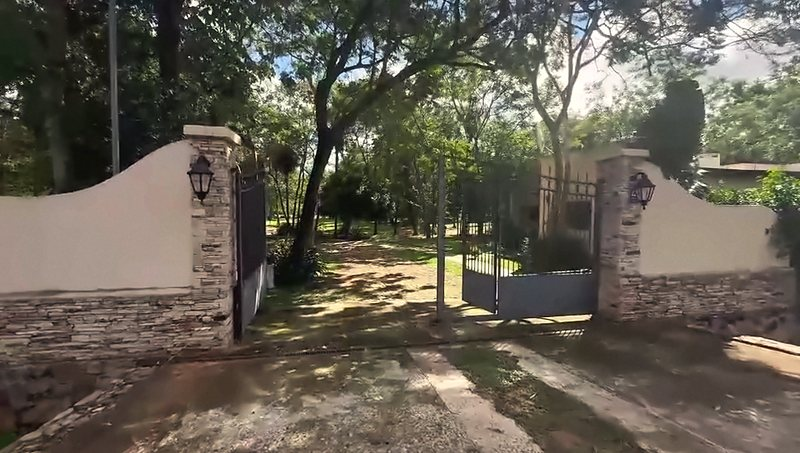
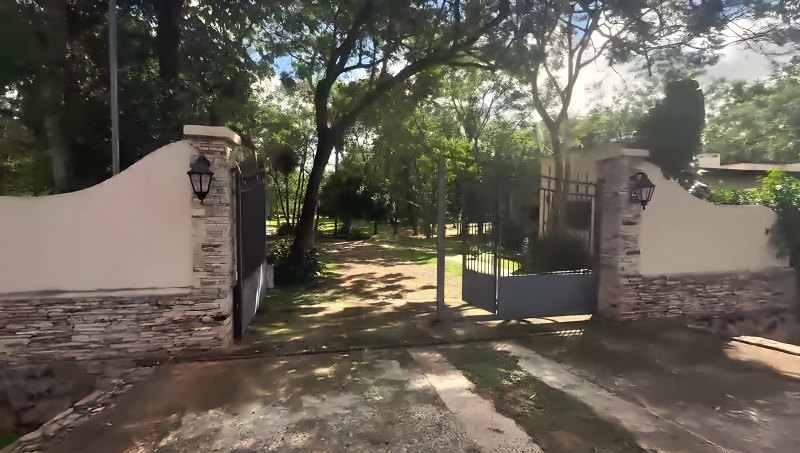
Property photos upscaled with Real-ESRGAN to 1920 px; park rebuilt from the sharpest video frame
The five photos now come from the cleaned video masters through Real-ESRGAN x4plus,
downsampled to 1920 and 800 px. The pool is built from the second part of the video
with the caption removed. The park uses frame 240 of part 1, framed above the caption
and without the parked vehicle, with no invented fill.

Claude-Session: https://claude.ai/code/session_019d8qPWDBUAxgTneqCKEMp6

diff --git a/tools/maqueta/sr-photos.py b/tools/maqueta/sr-photos.py
@@ -1,17 +1,20 @@
-"""Fotos del sitio con escalado por IA: toma los maestros limpios y graduados de photo-clean.py, arma la piscina desde
-la parte 2 del video y exporta las JPG del contrato a 1920 px (y -800) con Real-ESRGAN x4plus.
+"""Fotos del sitio con escalado por IA: toma los maestros limpios y graduados de photo-clean.py, arma la piscina y el
+parque desde el video y exporta las JPG del contrato a 1920 px (y -800) con Real-ESRGAN x4plus.
 
 Uso:
-  PW_SR_MODELS=<carpeta de pesos> python sr-photos.py <carpeta de trabajo> <parte2b.mov> <carpeta assets> [escena ...]
+  PW_SR_MODELS=<carpeta de pesos> python sr-photos.py <carpeta de trabajo> <carpeta de video> <carpeta assets> [escena ...]
     <carpeta de trabajo>  la de photo-clean.py (lee *-limpia-graduada.png y aerial-align.json)
-    <parte2b.mov>         segunda mitad de la parte 2 del video (piscina con jacuzzi y la casa detrás, cuadros 165–215)
+    <carpeta de video>    con parte1.mov (casa, portón, parque, aérea) y parte2b.mov (piscina con jacuzzi y la casa detrás)
     <carpeta assets>      destino: trianon-foto-{casa,porton,parque,piscina}.jpg, trianon-aerea.jpg y sus -800.jpg
     [escena ...]          opcional: casa porton parque piscina aerea (por defecto, las cinco)
 
 Método: maestro a resolución de origen (960×544) → Real-ESRGAN x4plus (3840 px) → reducción a 1920 y 800 px con área,
 enfoque muy suave y grano finísimo (el modelo ya devuelve bordes nítidos). La piscina: promedio robusto de los cuadros
 185–215 registrados sobre el 203 (cámara casi quieta) y relleno Shift-Map del subtítulo «Hermosa piscina con jacuzzi.»
-sobre el césped. La aérea recibe el límite del predio en dorado después del escalado, a la resolución final.
+sobre el césped. El parque: cuadro 240 de la parte 1 (el más nítido del video: árboles altos, césped y el sendero),
+promedio robusto de 236–244 y encuadre 16:9 por encima del subtítulo y sin el vehículo estacionado a la izquierda, sin
+relleno (el cuadro 332 que usa photo-clean.py está movido y el escalado le marca manchas en el follaje). La aérea
+recibe el límite del predio en dorado después del escalado, a la resolución final.
 Requiere el venv con PyTorch, OpenCV contrib, numpy y Pillow (ver BRIEF y upscale.py).
 """
 import importlib.util
@@ -69,6 +72,28 @@ def piscina_master(video, work):
     return pc.grade(pc.denoise(out, pc.DENOISE['piscina']), **pc.PRESETS['piscina'])
 
 
+def parque_master(video, work):
+    folder = os.path.join(work, 'fpq')
+    pc.extract_frames(video, range(236, 245), folder)
+    fr = pc.Frames(folder)
+    ref = fr(240)
+    Hh, W = ref.shape[:2]
+    box = (175, 420, 790, 476)                                   # «Amplia propiedad con casa y parque…»
+    mask = np.full((Hh, W), 255, np.uint8); mask[box[1] - 10:box[3] + 10, box[0] - 10:box[2] + 10] = 0
+    frames, valids = [], []
+    for i in (236, 238, 239, 241, 242, 244):                    # los más nítidos del tramo
+        w, inside = pc.align_to(ref, fr(i), mask)
+        v = (inside > 0).astype(np.float32); v[box[1]:box[3], box[0]:box[2]] = 0
+        frames.append(w); valids.append(v)
+    img = pc.robust_merge(ref, frames, valids, 5.0)
+    y1, x0, x1 = 408, 170, 890                                  # 720×408 = 1920×1088 exacto: sobre el subtítulo, sin el vehículo
+    out = img[:y1, x0:x1].copy()
+    cv2.imwrite(os.path.join(work, 'parque-video-limpia.png'), out)
+    # cuadro de pleno sol, no el 332 con bruma: sombras menos levantadas y algo más de contraste que el preset 'parque'
+    return pc.grade(pc.denoise(out, pc.DENOISE['parque']), exposure=1.0, gamma=1.0, warm=0.9, green=1.08,
+                    lift=0.015, contrast=0.15)
+
+
 def finish_from_sr(sr_bgr, width, grain, seed=7):
     h = round(sr_bgr.shape[0] * width / sr_bgr.shape[1])
     small = cv2.resize(sr_bgr, (width, h), interpolation=cv2.INTER_AREA)
@@ -88,8 +113,10 @@ def save(rgb, path, max_kb):
 def main():
     if len(sys.argv) < 4:
         print(__doc__); return 1
-    work, video2b, assets = sys.argv[1:4]
+    work, videos, assets = sys.argv[1:4]
     scenes = sys.argv[4:] or ['casa', 'porton', 'parque', 'piscina', 'aerea']
+    built = {'piscina': lambda: piscina_master(os.path.join(videos, 'parte2b.mov'), work),
+             'parque': lambda: parque_master(os.path.join(videos, 'parte1.mov'), work)}
     models = os.environ.get('PW_SR_MODELS', os.path.join(HERE, 'models'))
     import torch
     torch.set_num_threads(os.cpu_count() or 4)
@@ -98,10 +125,10 @@ def main():
              'piscina': 'trianon-foto-piscina', 'aerea': 'trianon-aerea'}
     report = {}
     for s in scenes:
-        master = piscina_master(video2b, work) if s == 'piscina' else cv2.imread(os.path.join(work, f'{s}-limpia-graduada.png'))
+        master = built[s]() if s in built else cv2.imread(os.path.join(work, f'{s}-limpia-graduada.png'))
         assert master is not None, s
         sr_path = os.path.join(work, f'{s}-sr-x4.png')
-        if os.path.exists(sr_path) and s != 'piscina':
+        if os.path.exists(sr_path) and s not in built:
             sr = cv2.imread(sr_path)
         else:
             sr = up.upscale(net, scale, master, tile=256); cv2.imwrite(sr_path, sr)
